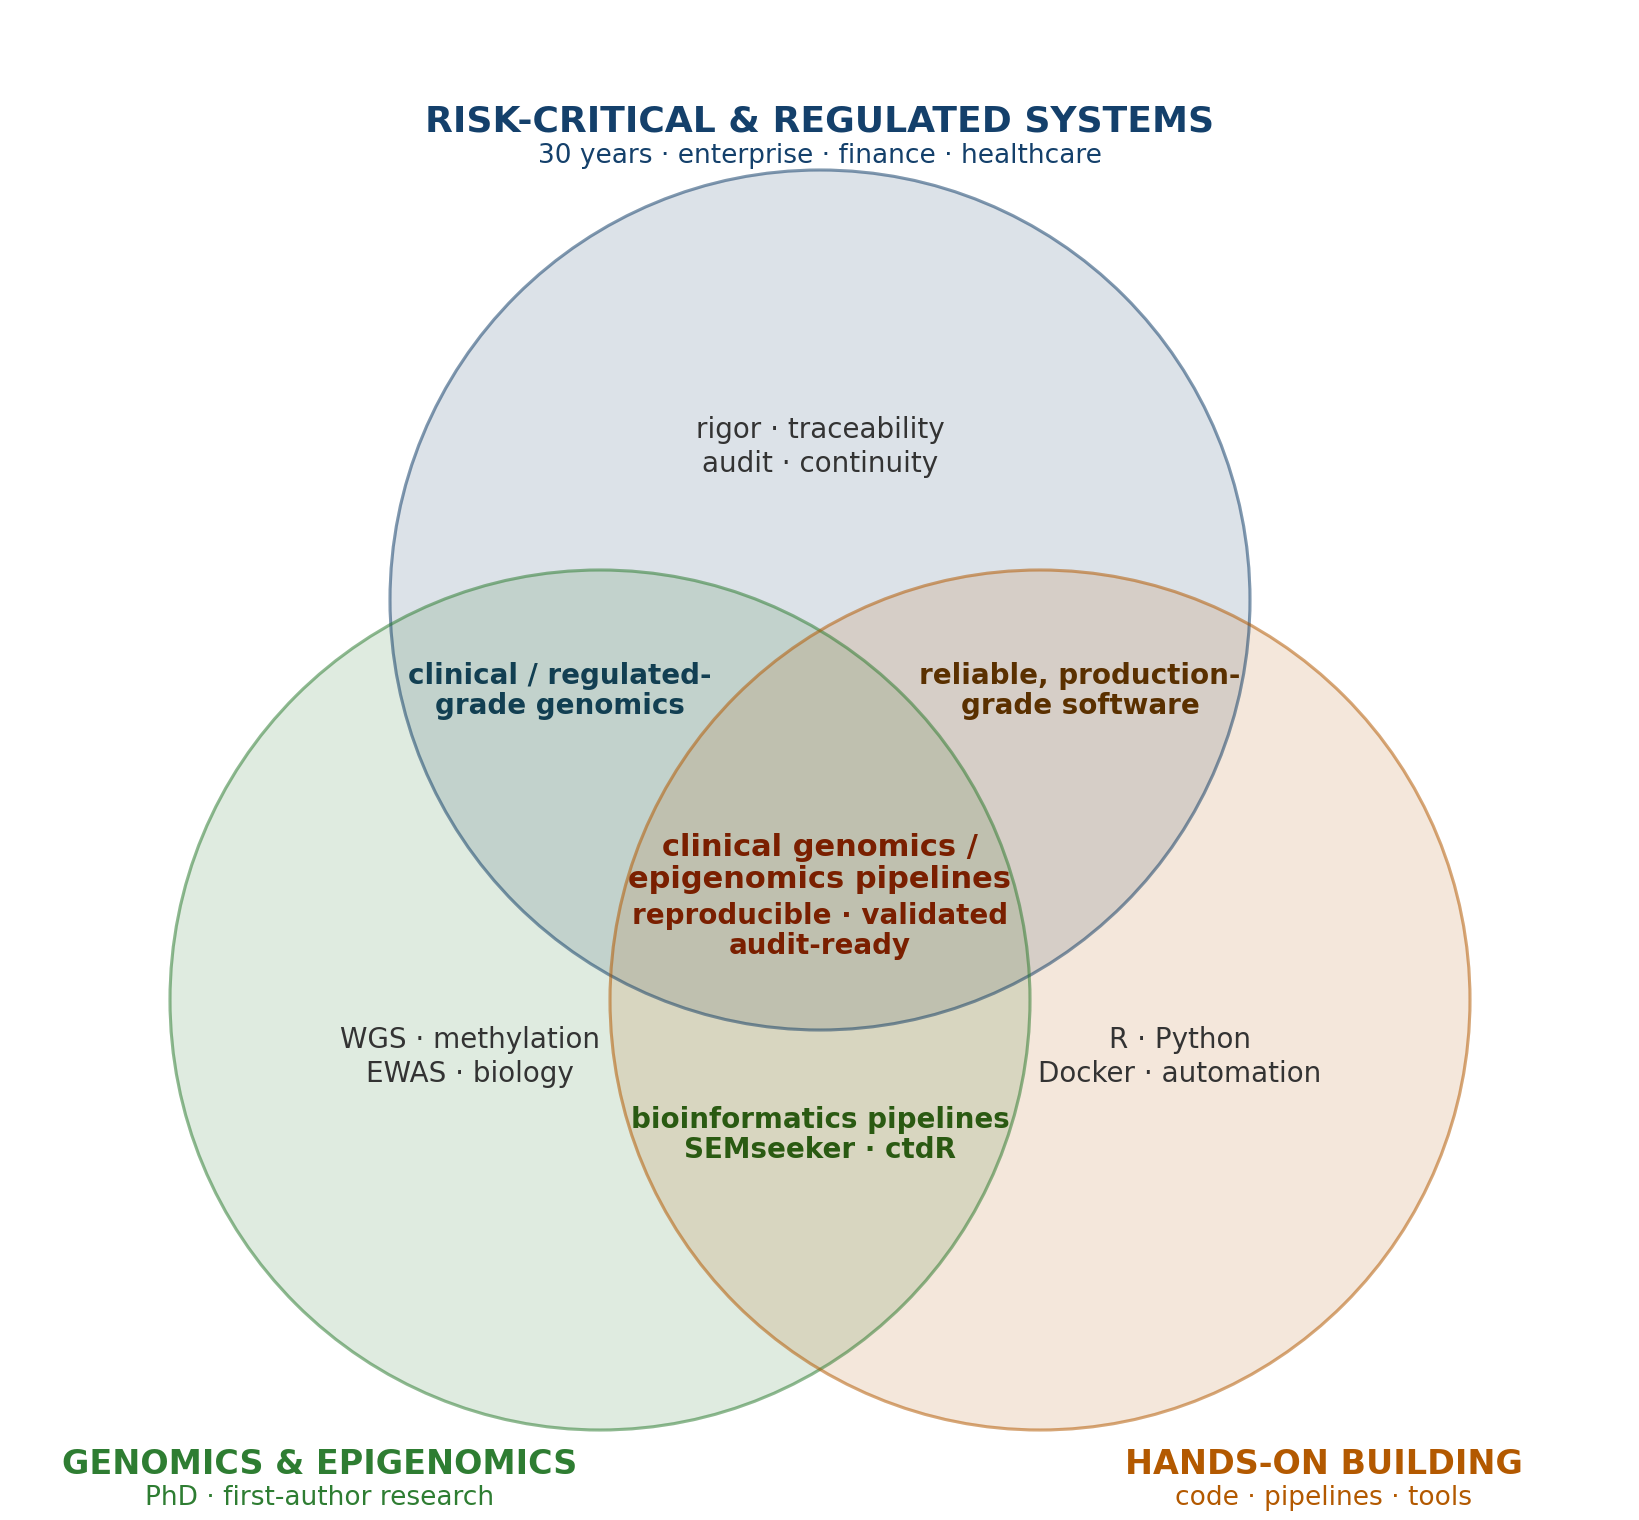
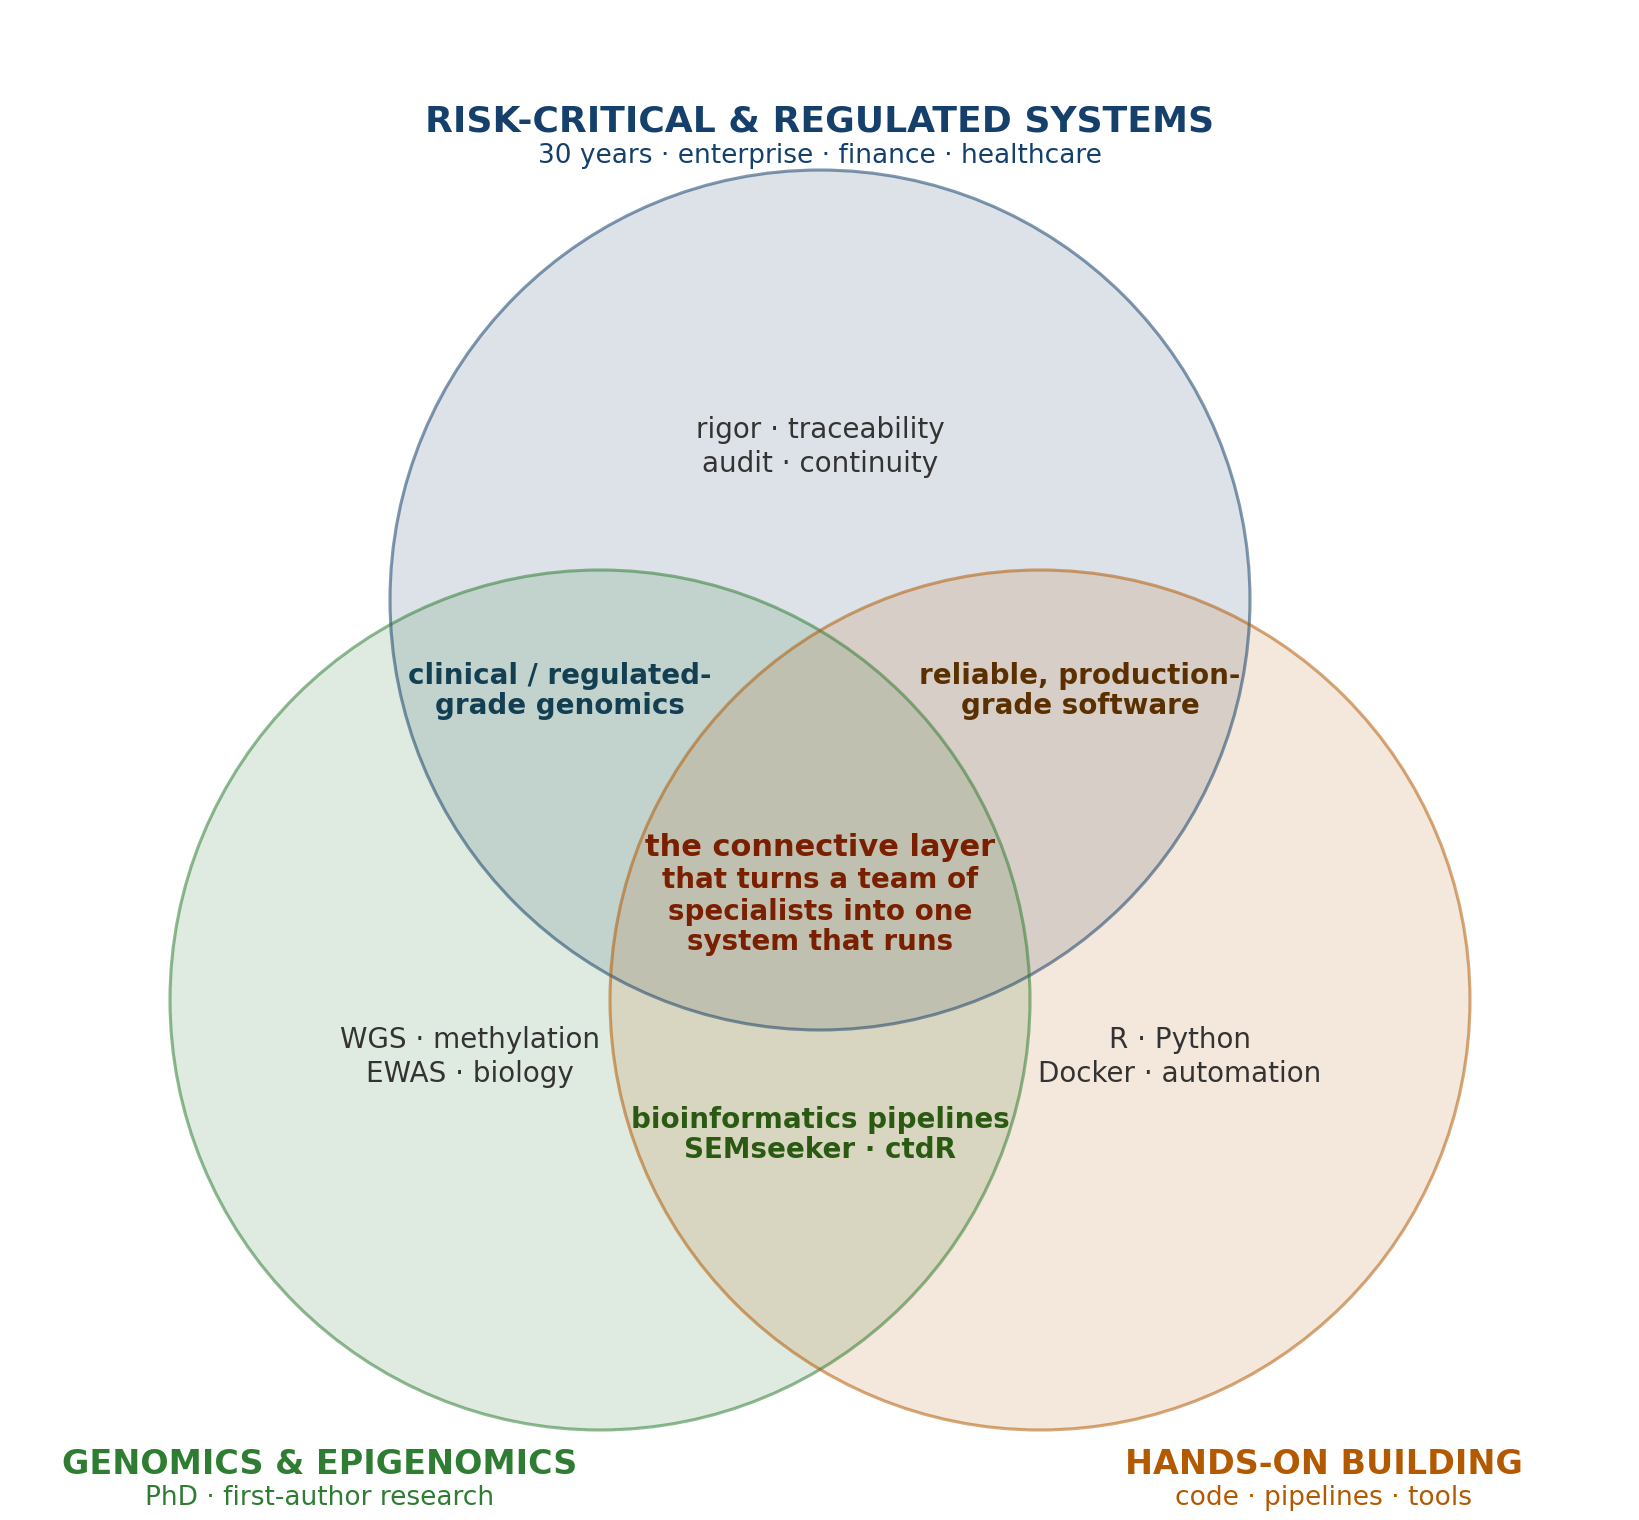
Reposition landing: systems over pipelines, team-centric value, client-first copy
- Reframe from pipeline builder to reliable computational systems for genomics
- Tone down self-celebratory copy; value emerges within a team of specialists
- Client-first lead and 'How I can help' section
- Add coaching/teaching (ITS Angelo Rizzoli) as a service
- Add Nexialism closing (van Vogt) and portrait photo
- Add automatic dark theme across all pages
- Regenerate Venn: centre now names the connective layer, not a rare point

Changed region(s): [[0.3734, 0.5257, 0.6223, 0.6493]]

diff --git a/index.html b/index.html
@@ -3,8 +3,9 @@
 <head>
 <meta charset="utf-8">
 <meta name="viewport" content="width=device-width, initial-scale=1">
-<title>Luigi Corsaro, PhD · Clinical Genomics &amp; Epigenomics Data Engineer</title>
-<meta name="description" content="Freelance clinical genomics and epigenomics data engineer. Reproducible, validated and audit-ready pipelines, combining a PhD in Genomic Data Science with 30 years of risk-critical systems engineering.">
+<meta name="color-scheme" content="light dark">
+<title>Luigi Corsaro, PhD · Computational Systems for Clinical Genomics &amp; Epigenomics</title>
+<meta name="description" content="I engineer reliable computational systems for clinical genomics and epigenomics — from research code to reproducible, validated and audit-ready production. A PhD in Genomic Data Science combined with 30 years of risk-critical systems engineering.">
 <style>
   :root{ --navy:#14406b; --ink:#1a1a1a; --muted:#5a6472; --line:#e2e6ec; --accent:#b35900; --bg:#fff; }
   *{box-sizing:border-box}
@@ -29,6 +30,7 @@
   .lead{font-size:1.05rem;color:#333}
   .pillars{display:grid;grid-template-columns:repeat(auto-fit,minmax(230px,1fr));gap:16px;margin-top:8px}
   .card{border:1px solid var(--line);border-radius:10px;padding:16px}
+  .card.wide{grid-column:1/-1}
   .card h3{margin:0 0 6px;font-size:1rem;color:var(--navy)}
   .card p{margin:0;color:var(--muted);font-size:.92rem}
   .venn{text-align:center;margin:6px 0}
@@ -41,6 +43,19 @@
   .badge{display:inline-block;background:#f4f7fb;color:var(--navy);border:1px solid var(--line);border-radius:6px;padding:2px 8px;font-size:.82rem;margin:2px 4px 2px 0}
   footer{padding:26px 0;color:var(--muted);font-size:.88rem;text-align:center}
   .muted{color:var(--muted)}
+  .close p{color:#333;margin:0 0 12px}
+  .epigraph{margin:0 0 18px;padding:8px 0 8px 16px;border-left:3px solid var(--accent);font-style:italic;font-size:1.08rem;color:#333}
+  .epigraph .cite{display:block;margin-top:6px;font-style:normal;font-size:.82rem;color:var(--muted)}
+  .me .wrap{display:flex;align-items:center;gap:18px;flex-wrap:wrap}
+  .me img{width:112px;height:112px;border-radius:50%;object-fit:cover;border:1px solid var(--line)}
+  .me .who{font-size:.95rem}
+  .me .who strong{color:var(--navy)}
+  @media (prefers-color-scheme: dark){
+    :root{ --navy:#7ab3ef; --ink:#e4e8ee; --muted:#98a3b0; --line:#2a3441; --accent:#e0913f; --bg:#10151d; }
+    .lead,.close p,.epigraph{color:#cdd4dc}
+    .card{background:#151c26}
+    .badge{background:#1b2532}
+  }
 </style>
 <script>
   window.vmtrcq = window.vmtrcq || [];
@@ -56,11 +71,11 @@
       <a href="projects.html">Projects</a>
       <a href="papers.html">Publications</a>
       <!-- Replace href with your O365 "Bookings with me" link when ready -->
-      <a class="cta" href="mailto:[email redacted]?subject=Intro%20call:%20clinical%20genomics%20pipelines">Book a call</a>
+      <a class="cta" href="mailto:[email redacted]?subject=Intro%20call:%20clinical%20genomics%20systems">Book a call</a>
     </nav>
     <h1>Luigi Corsaro, PhD</h1>
-    <div class="role">Freelance Clinical Genomics and Epigenomics Data Engineer</div>
-    <div class="tag">Reproducible, validated and audit-ready pipelines for WGS, NGS, DNA methylation and EWAS · Remote across the EU, US and Switzerland</div>
+    <div class="role">Clinical Genomics &amp; Epigenomics · Computational Systems</div>
+    <div class="tag">From research code to systems that run, hold up under scrutiny, and can be handed over — WGS, NGS, DNA methylation, EWAS · Remote across the EU, US and Switzerland</div>
     <div class="links">
       <a href="mailto:[email redacted]">Email</a>
       <a href="https://www.linkedin.com/in/luigicorsaro">LinkedIn</a>
@@ -73,29 +88,34 @@
 
 <section>
   <div class="wrap">
-    <p class="lead">I build the pipelines that clinical genomics and epigenomics can rely on, taking
-    sequencing and DNA-methylation analysis from research scripts to reproducible, validated and
-    audit-ready production. My work draws on a rare combination of strengths: <strong>30 years of
-    engineering risk-critical, regulated systems</strong>, a <strong>PhD in Genomic Data Science</strong>,
-    and <strong>first-author epigenetics research</strong> supported by public, citable code.</p>
+    <p class="lead">Clinical genomics and epigenomics teams often have analysis that works in
+    research — but isn't reproducible, validated, or ready to be audited and handed over. Closing
+    that gap is what I do: taking sequencing and DNA-methylation work from research code to a
+    computational system that runs in production and holds up under scrutiny. What I bring to it —
+    <strong>30 years engineering risk-critical, regulated systems</strong>, a
+    <strong>PhD in Genomic Data Science</strong>, and <strong>first-author epigenetics research</strong> —
+    works alongside a team of specialists (clinicians, wet-lab scientists, bioinformaticians),
+    turning their combined competencies into a system that actually runs. The system works because
+    the group does.</p>
   </div>
 </section>
 
 <section>
   <div class="wrap">
-    <h2>The rare intersection</h2>
-    <div class="venn"><img src="venn.png" alt="Venn diagram of risk-critical systems, genomics and epigenomics, and hands-on building"></div>
-    <p class="center-line">The value is not in any single circle; it lies at the centre.</p>
+    <h2>Where I work</h2>
+    <div class="venn"><img src="venn.png" alt="Venn diagram of risk-critical systems engineering, genomics and epigenomics, and hands-on building, overlapping at the centre"></div>
+    <p class="center-line">None of these circles delivers alone — and neither do I. The value is in connecting them, inside a team, into something that runs.</p>
   </div>
 </section>
 
 <section>
   <div class="wrap">
-    <h2>What I do</h2>
+    <h2>How I can help</h2>
     <div class="pillars">
-      <div class="card"><h3>Pipeline audits and validation</h3><p>Review of reproducibility, traceability, quality control and audit-readiness for existing genomics and methylation pipelines.</p></div>
-      <div class="card"><h3>Research to production</h3><p>Conversion of analysis scripts into modular, documented and containerised production pipelines for WGS, NGS and EWAS.</p></div>
-      <div class="card"><h3>Fractional technical lead</h3><p>Senior ownership of genomics engineering: architecture, validation strategy, mentoring and knowledge transfer.</p></div>
+      <div class="card"><h3>Reliability, validation &amp; audit-readiness</h3><p>Reproducibility, traceability, quality control and audit-readiness for genomics and methylation systems.</p></div>
+      <div class="card"><h3>From research code to production systems</h3><p>Turning analysis code into modular, documented and containerised systems for WGS, NGS and EWAS.</p></div>
+      <div class="card"><h3>Fractional technical lead</h3><p>Making a multi-disciplinary team deliver: architecture, validation strategy, mentoring and handover.</p></div>
+      <div class="card wide"><h3>Coaching &amp; knowledge transfer</h3><p>Adjunct lecturer at ITS Angelo Rizzoli for four years — descriptive statistics, statistical models and Python. The same coaching brought to your team: upskilling and handover so the work outlives the engagement.</p></div>
     </div>
   </div>
 </section>
@@ -144,11 +164,49 @@
   </div>
 </section>
 
+<section class="close">
+  <div class="wrap">
+    <h2>Nexialism</h2>
+    <blockquote class="epigraph">&ldquo;Applied whole-ism.&rdquo;
+      <span class="cite">&mdash; A. E. van Vogt, <em>The Voyage of the Space Beagle</em>, Simon &amp; Schuster, 1950, p. 35</span></blockquote>
+    <p>In van Vogt&rsquo;s novel, Elliott Grosvenor is the only Nexialist aboard the <em>Space Beagle</em> &mdash; a
+      department of one, whose specialism is connecting the others. For much of the voyage his reports go
+      unanswered. He earns a hearing not by convincing anyone, but by threatening a board of inquiry; the
+      director agrees to listen only because Grosvenor&rsquo;s presence on the ship obliges him to weigh the
+      opinion at all.</p>
+    <p>The interesting part isn&rsquo;t that he turns out to be right. It&rsquo;s that, before the demonstration, there
+      was no way to tell him apart from someone who speaks loosely about everything. The chemist Kent&rsquo;s
+      skepticism is, a priori, fair.</p>
+    <p>I read my own work in that light. What I add to a team isn&rsquo;t deeper genomics than the bioinformaticians
+      or better bench judgement than the biologists &mdash; it&rsquo;s propagating constraints across those domains
+      until they resolve into one system that runs. I can read the interfaces between fields; I&rsquo;m not the
+      specialist inside any of them. Bench molecular biology and clinical interpretation, for two, are places
+      where I defer to the people who own them. The connective role only proves itself after the fact, on a
+      problem the separate specialisms don&rsquo;t close on their own &mdash; and until then it&rsquo;s fair to be skeptical
+      of it.</p>
+    <p>Van Vogt makes the same point inside the book: the ship&rsquo;s engineer, he notes, needed nexialism less
+      than anyone aboard.</p>
+  </div>
+</section>
+
+<section class="me">
+  <div class="wrap">
+    <img src="luigi.jpg" alt="Luigi Corsaro" width="112" height="112">
+    <div class="who">
+      <strong>Luigi Corsaro, PhD</strong><br>
+      <span class="muted">Milan, Italy · remote across the EU, US and Switzerland</span><br>
+      <a href="mailto:[email redacted]">[email redacted]</a> ·
+      <a href="https://www.linkedin.com/in/luigicorsaro">LinkedIn</a> ·
+      <a href="https://github.com/drake69">GitHub</a>
+    </div>
+  </div>
+</section>
+
 <footer>
   <div class="wrap">
     Luigi Corsaro, PhD · Milan, Italy · <a href="mailto:[email redacted]">[email redacted]</a><br>
     <a href="index.html">Home</a> · <a href="projects.html">Projects</a> · <a href="papers.html">Publications</a><br>
-    Reliable AI and data systems for domains where mistakes are expensive.
+    Reliable computational systems for genomics, where mistakes are expensive.
   </div>
 </footer>
 

diff --git a/papers.html b/papers.html
@@ -3,6 +3,7 @@
 <head>
 <meta charset="utf-8">
 <meta name="viewport" content="width=device-width, initial-scale=1">
+<meta name="color-scheme" content="light dark">
 <title>Publications · Luigi Corsaro, PhD</title>
 <meta name="description" content="Peer-reviewed publications by Luigi Corsaro, PhD: clinical genomics and epigenomics, EWAS and stochastic epimutation. Each entry links to its DOI.">
 <style>
@@ -32,6 +33,12 @@
   .item .plinks a{display:inline-block;margin:0 12px 0 0;font-size:.88rem}
   .badge{display:inline-block;background:#f4f7fb;color:var(--navy);border:1px solid var(--line);border-radius:6px;padding:2px 8px;font-size:.78rem;margin:2px 4px 2px 0}
   footer{padding:26px 0;color:var(--muted);font-size:.88rem;text-align:center}
+  @media (prefers-color-scheme: dark){
+    :root{ --navy:#7ab3ef; --ink:#e4e8ee; --muted:#98a3b0; --line:#2a3441; --accent:#e0913f; --bg:#10151d; }
+    .item p{color:#cdd4dc}
+    .item{background:#151c26}
+    .badge{background:#1b2532}
+  }
 </style>
 <script>
   window.vmtrcq = window.vmtrcq || [];
@@ -47,7 +54,7 @@
       <a href="index.html">Home</a>
       <a href="projects.html">Projects</a>
       <!-- Replace href with your O365 "Bookings with me" link when ready -->
-      <a class="cta" href="mailto:[email redacted]?subject=Intro%20call:%20clinical%20genomics%20pipelines">Book a call</a>
+      <a class="cta" href="mailto:[email redacted]?subject=Intro%20call:%20clinical%20genomics%20systems">Book a call</a>
     </nav>
     <h1>Publications</h1>
     <div class="role">Peer-reviewed papers by Luigi Corsaro, PhD</div>
@@ -136,7 +143,7 @@
   <div class="wrap">
     Luigi Corsaro, PhD · Milan, Italy · <a href="mailto:[email redacted]">[email redacted]</a><br>
     <a href="index.html">Home</a> · <a href="projects.html">Projects</a> · <a href="papers.html">Publications</a><br>
-    Reliable AI and data systems for domains where mistakes are expensive.
+    Reliable computational systems for genomics, where mistakes are expensive.
   </div>
 </footer>
 

diff --git a/projects.html b/projects.html
@@ -3,6 +3,7 @@
 <head>
 <meta charset="utf-8">
 <meta name="viewport" content="width=device-width, initial-scale=1">
+<meta name="color-scheme" content="light dark">
 <title>Projects · Luigi Corsaro, PhD</title>
 <meta name="description" content="Open-source projects by Luigi Corsaro: genomics and epigenomics R packages, toxicogenomics tools and privacy-first data products. Research and code in the same commit.">
 <style>
@@ -31,6 +32,12 @@
   .item .plinks a{display:inline-block;margin:0 12px 0 0;font-size:.88rem}
   .badge{display:inline-block;background:#f4f7fb;color:var(--navy);border:1px solid var(--line);border-radius:6px;padding:2px 8px;font-size:.78rem;margin:2px 4px 2px 0}
   footer{padding:26px 0;color:var(--muted);font-size:.88rem;text-align:center}
+  @media (prefers-color-scheme: dark){
+    :root{ --navy:#7ab3ef; --ink:#e4e8ee; --muted:#98a3b0; --line:#2a3441; --accent:#e0913f; --bg:#10151d; }
+    .item p{color:#cdd4dc}
+    .item{background:#151c26}
+    .badge{background:#1b2532}
+  }
 </style>
 <script>
   window.vmtrcq = window.vmtrcq || [];
@@ -46,7 +53,7 @@
       <a href="index.html">Home</a>
       <a href="papers.html">Publications</a>
       <!-- Replace href with your O365 "Bookings with me" link when ready -->
-      <a class="cta" href="mailto:[email redacted]?subject=Intro%20call:%20clinical%20genomics%20pipelines">Book a call</a>
+      <a class="cta" href="mailto:[email redacted]?subject=Intro%20call:%20clinical%20genomics%20systems">Book a call</a>
     </nav>
     <h1>Projects</h1>
     <div class="role">Open-source code by Luigi Corsaro, PhD</div>
@@ -130,7 +137,7 @@
   <div class="wrap">
     Luigi Corsaro, PhD · Milan, Italy · <a href="mailto:[email redacted]">[email redacted]</a><br>
     <a href="index.html">Home</a> · <a href="projects.html">Projects</a> · <a href="papers.html">Publications</a><br>
-    Reliable AI and data systems for domains where mistakes are expensive.
+    Reliable computational systems for genomics, where mistakes are expensive.
   </div>
 </footer>
 